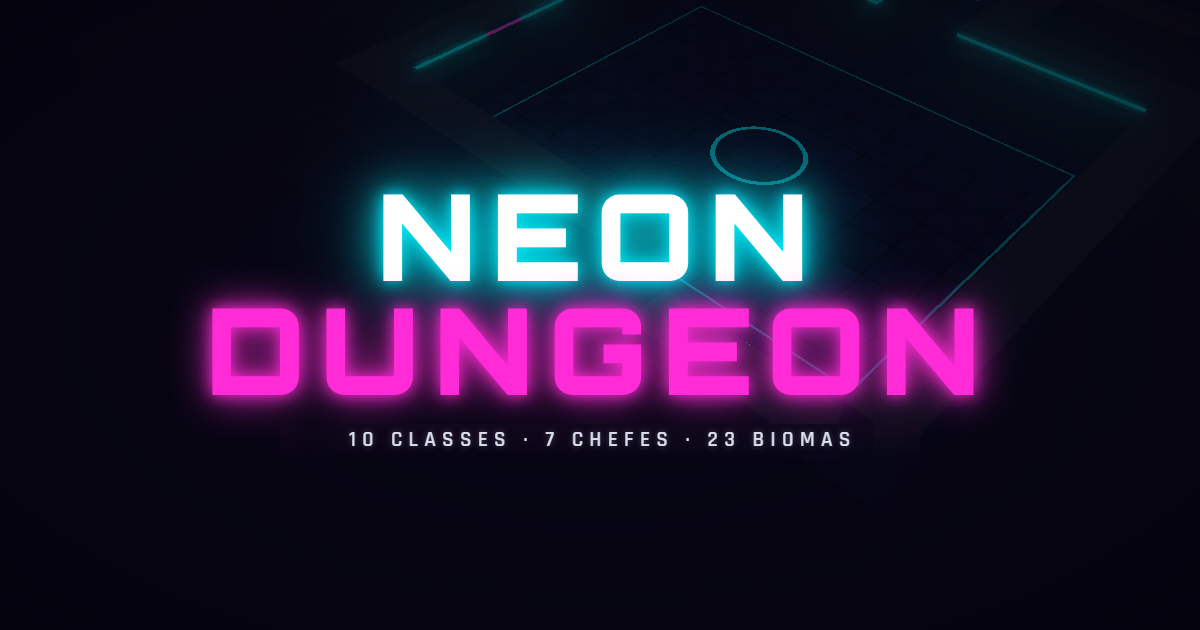
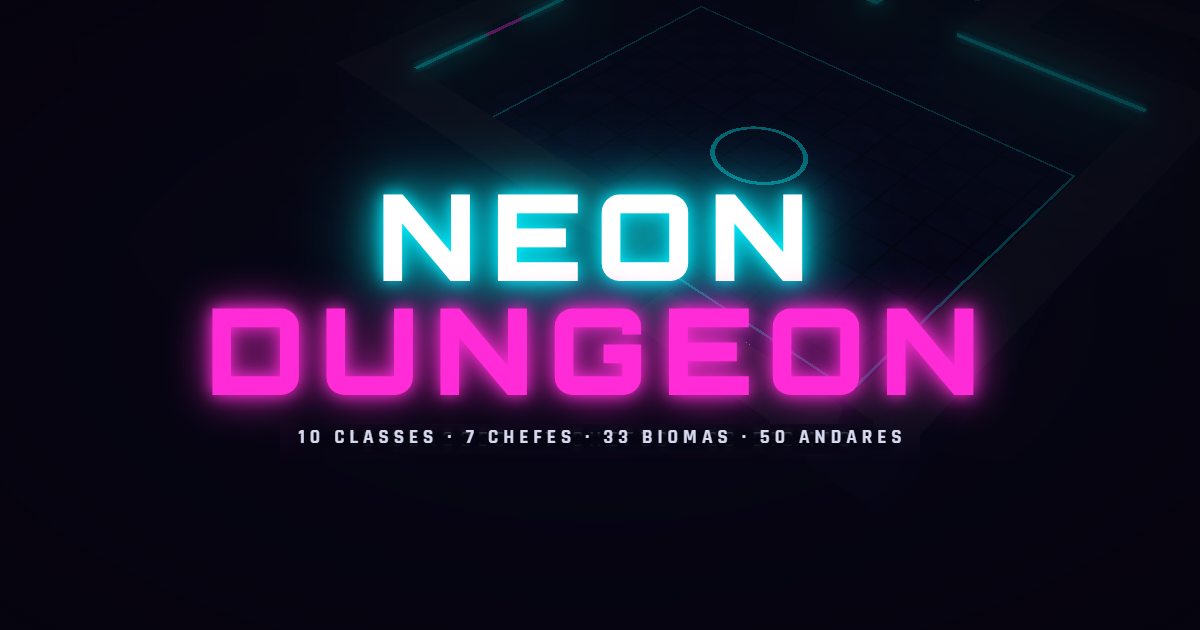
Fase H: docs finais (mythtree.js no README/AGENTS/ARCHITECTURE/CONTENT), og-image com 33 biomas e 50 andares e Plano 2 concluído

Changed region(s): [[0.2467, 0.6635, 0.74, 0.7238]]

diff --git a/docs/PLAN.md b/docs/PLAN.md
@@ -205,12 +205,12 @@ Uma fase por commit/push. Detalhes completos: este arquivo + o plano aprovado da
 - [x] **Fase D** — 10 biomas, 2 commits de 5, padrão do `wilds.js` (mecânicas novas em `wilds2.js`). **D1 feito** (aurora, coral, clock, mirrorlake, arcade; andares 30–41). **D2 feito** (mushroom, storm, library, lavafall, garden; andares 27–29, 31, 42–47; 33 biomas nos docs/meta). Falta regerar o `og-image.png` na Fase H.
 - [x] **Fase E** — 15 inimigos (5 tech: Drone Espelho, Gravitador, Ceifador de Dados, Construtor, Enxame Mosca; 10 fauna dos biomas novos). Código em `js/enemies2.js` (IA `aiNew`, ganchos), `ETYPES` em `enemies.js`, modelos `newEnemyModel` em `models.js`, overlay `#ink`, `fauna` dos 10 biomas atualizada; README diz 55 tipos.
 - [x] **Fase F** (F3 feita: lock, elements, snake, mines, tug, beacon [TIMED], juggle [TIMED], sculpt, portal, king [TIMED]; F1 feita: sokoban, pipes, piano, scale, maze, bridge, paint, hide, statues, cannon; F2 feita: golem, fishing, dominos, bounty2 [TIMED], tower, bells, garden2, courier, ghosthunt, pinata; tudo em `js/events2.js`, medalhas em `ach.js`) — 30 eventos novos (3 commits de 10), só acrescentar no fim de `MAIN_EVENTS`; os com relógio entram em `TIMED`.
-- [ ] **Fase G** — +10 poderes por classe (5 ataques `myth` + 5 defesas `ward`), 2 classes por commit, no FIM da lista (depois de pSwift, SUP e APEX). **G1 feita** (blade, gunner); **G2 feita** (netrunner, brawler); **G3 feita** (pyro, frost); **G4 feita** (heavy, hunter); **G5 feita** (lancer, biohacker); Fase G concluída; falta, heavy+hunter, lancer+biohacker. Tudo em `js/mythtree.js` (arquétipos `ATK`/`WRD`, ícones `BASE`+`MARK`; só adicionar linhas `myth(...)`/`ward(...)`/`wardP(...)` por classe; marcas `myth`/`ward` em `TIERS` do `ui.js`; medalhas mythTree/wardTree = 224).
-- [ ] **Fase H** — Docs finais, contagens, `og-image.png`.
+- [x] **Fase G** — +10 poderes por classe (5 ataques `myth` + 5 defesas `ward`), 2 classes por commit, no FIM da lista (depois de pSwift, SUP e APEX). **G1 feita** (blade, gunner); **G2 feita** (netrunner, brawler); **G3 feita** (pyro, frost); **G4 feita** (heavy, hunter); **G5 feita** (lancer, biohacker); Fase G concluída; falta, heavy+hunter, lancer+biohacker. Tudo em `js/mythtree.js` (arquétipos `ATK`/`WRD`, ícones `BASE`+`MARK`; só adicionar linhas `myth(...)`/`ward(...)`/`wardP(...)` por classe; marcas `myth`/`ward` em `TIERS` do `ui.js`; medalhas mythTree/wardTree = 224).
+- [x] **Fase H** — Docs finais, contagens, `og-image.png` regerado (33 biomas, 50 andares), `mythtree.js` documentado em README/AGENTS/ARCHITECTURE/CONTENT. **Feita.**
 
 ## Notas de passagem entre contas (Plano 2) — atualizado após a Fase D
 
-**Próximo passo: Fase H (docs finais; Fase G concluída, ver `js/mythtree.js`)** — +10 poderes por classe: fileira `myth` níveis 104/112/120/128/136 e `guard` 108/116/124/132/140, 5 commits de 2 classes: blade+gunner, netrunner+brawler, pyro+frost, heavy+hunter, lancer+biohacker; anexar no fim de `CLASSES[cls].skills`, novas linhas em `TIERS` de `ui.js`, `sanitizeChar` completa zeros, ícones em `ICONS`, lógica em `SKILL_FN`/`powers.js`, medalhas mythTree/guardTree). Depois H (docs finais + og-image). Fases A–F concluídas (68 eventos, 222 medalhas).
+**Plano 2 concluído** (Fases 0, A–H). Estado final: 50 andares por tier, Abismo I–C, 33 biomas, 55 inimigos, 68 eventos, 224 medalhas, 10 poderes míticos por classe (`js/mythtree.js`).
 
 Onde estão as coisas / lições já aprendidas:
 - Biomas novos: `js/wilds2.js` (mecânicas), `FEAT` 29–43 em `biomes.js`, `THEMES` em `dungeon.js`, `FLOOR_THEMES` (andares 27–47 usam os 10 biomas novos). A fauna dos biomas novos (era temporária; agora definitiva na Fase E) (reaproveita `icewolf`, `yeti`, `wisp`, `ghost`, `eagle`, `goat`, `toad`, `salamander`, `magmagolem`, `antibody`, `drone`, `tesladrone`, `sentry`, `fossilcrab`, `skyray`, `kamikaze`). A Fase E troca o campo `fauna: [...]` de cada tema pelos inimigos novos: aurora→Lobo Aurora, coral→Polvo Neon, clock→Autômato de Corda, mirrorlake→Espectro de Reflexo, arcade→Bola de Pinball, mushroom→Fungóide, storm→Elemental de Raio, library→Livro Mordedor, lavafall→Salamandra de Basalto, garden→Samurai de Bambu. Os 5 tech (Drone Espelho, Gravitador, Ceifador de Dados, Construtor, Enxame Mosca) entram nos biomas tech (`neon`, `factory`, `data`, `space`, `cryo`...).

diff --git a/docs/ARCHITECTURE.md b/docs/ARCHITECTURE.md
@@ -160,8 +160,9 @@ Navigation helpers:
 
 - `CLASSES[id]` holds `name`, `title`, `desc`, colors (`css`, `accent`), `melee`, `range`, `base` stats, `weaponNames` and `skills`.
 - Each class has 9 active skills, then 3 passives (`PASSIVES`, built with the `passive()` helper; `mods(rank)` returns stat bonuses), then the shared Teleport (`warp`), then 3 advanced passives (`LATE_PASSIVES`, marked `late: true`, levels 20/28/36), then 4 advanced powers (`ADV_POWERS`, built with the `adv()` helper and marked `adv: true`, levels 40/50/60/70: attack, defense, attack, defense). The Netrunner has its own teleport, so it has 19 skills instead of 20. After those come 4 supreme passives (`SUP_PASSIVES`, `sup()` helper, `sup: true`, levels 72/80/88/96) and 4 apex attacks (`APEX_POWERS`, `apex()` helper, `apex: true`, levels 76/84/92/100). Every class has them; the Valkyrie and the Biohacker keep theirs in `SUP_LATE`/`APEX_LATE`, pushed after Swift Steps so saved skill indices never move.
+- `js/mythtree.js` appends the last 10 skills of each class (5 `myth` attacks, levels 104–136, and 5 `ward` defenses, levels 108–140: 3 active and 2 passive). A power is one line: `myth(cls, archetype, id, level, name, mark, cost, cd, params)`, `ward(...)` or `wardP(cls, id, level, name, icon, modsFn)`. The archetype (`ATK` / `WRD` tables) supplies `run` and the bilingual description; `BASE` + `MARK` compose the icon. Each class ends with 39 skills; `sanitizeChar` pads older saves with zeros.
 - `skills[0]` is the primary attack (free, no cooldown). `skills[1]` starts unlocked.
-- The skill tree layout (which index goes in which row) is `TIERS` in `ui.js`. A skill's `req` is the level needed. The last rows find their skills by their `mark` (`late`, `adv`, `sup`, `apex`) instead of fixed indices; a row with no skills for the class is hidden.
+- The skill tree layout (which index goes in which row) is `TIERS` in `ui.js`. A skill's `req` is the level needed. The last rows find their skills by their `mark` (`late`, `adv`, `sup`, `apex`, `myth`, `ward`) instead of fixed indices; a row with no skills for the class is hidden.
 - Skill logic lives in `SKILL_FN`, keyed by skill `id`, extended by `Object.assign(SKILL_FN, {...})` blocks. Big reusable powers (summons, orbitals, black holes, storms, transformations) are in `powers.js`.
 - `ICONS` holds inline-SVG path strings on a 32×32 viewBox.
 

diff --git a/README.md b/README.md
@@ -115,7 +115,7 @@ Two **supreme rows** sit at the top of the tree: four supreme passives (levels 7
 | Valkyrie | Thunder Tip, Einherjar, Storm Rider, Valkyrie Queen | Thunder Volley, Valkyrie's Charge, Valkyrie Host, Odin's Judgement |
 | Biohacker | Toxic Blood, Symbiote, Pandemic Gene, Patient Zero | Plague Cloud, Nanobot Swarm, Alpha Mutant, Pandemic |
 
-Two more rows close the tree: **five mythic attacks** (levels 104, 112, 120, 128 and 136) and **five mythic defenses** (levels 108, 116, 124, 132 and 140, a mix of active powers and passives). They are built from shared archetypes (beams, cones, rains of projectiles, summons, shields, decoys, big heals...) in .
+Two more rows close the tree: **five mythic attacks** (levels 104, 112, 120, 128 and 136) and **five mythic defenses** (levels 108, 116, 124, 132 and 140, a mix of active powers and passives). They are built from shared archetypes (beams, cones, rains of projectiles, summons, shields, decoys, big heals...) in `js/mythtree.js`.
 
 | Class | Mythic attacks | Mythic defenses |
 | --- | --- | --- |
@@ -456,6 +456,8 @@ js/sync.js             Google sign-in and Google Drive cloud save
 js/ach.js              medals (achievements) and their counters
 js/run.js              floor anomalies, contracts, rifts, kill combo and implants
 js/events.js           floor puzzles and challenges (terminals, lasers, bomb, wanted, circuit, escort, secret room...)
+js/events2.js          the newer floor events (energy boxes, plumbing, giant keyboard, scales, light maze... up to King of the Hill)
+js/mythtree.js         the 10 mythic powers per class (5 attacks + 5 defenses), built from shared archetypes
 js/mythic.js           mythic item powers
 js/finale.js           true-ending cinematic after beating the Inferno (2D canvas)
 js/pets.js             decorative pets that wander each biome

diff --git a/AGENTS.md b/AGENTS.md
@@ -94,6 +94,7 @@ Module map (`js/`):
 | `wilds2.js` | The third wave of wild biomes (aurora, coral, clock, mirrorlake, arcade, mushroom, storm, library, lavafall, garden): strips of aurora light, reef currents and bubbles, gears and clock hands, mirror floor, pinball bumpers, bouncy mushrooms and spores, lightning and rods, trap pages, lava columns, healing lanterns. `wilds.js` delegates to it (`placeWild2`, `wildGround2`, `buildWilds2`, `updateWilds2`) and exports the shared helpers (`blobs`, `spots`, `layer`, `lam`, `basic`...). |
 | `wilds.js` | The 10 "wild" biomes (bones, glass, starswamp, hive, stonesea, armory, titan, ashwinter, uprain, salt): their floor tiles (`FEAT` 15+), placement, instanced meshes, breakable props, and runtime rules (shattering glass, tides, updrafts, sentinels, breath/heartbeat, gusts). |
 | `classes.js` | `CLASSES` (10 classes), `CLASS_ORDER`, passives, the shared Teleport skill, `SKILL_FN` (skill logic) and the inline-SVG `ICONS`. |
+| `mythtree.js` | The last two rows of every skill tree: 5 mythic attacks (`myth`, levels 104–136) and 5 mythic defenses (`ward`, levels 108–140) per class, built from archetype tables (`ATK`, `WRD`) with the `myth()` / `ward()` / `wardP()` helpers. Appended to `CLASSES[cls].skills` after everything else. |
 | `powers.js` | Advanced tree powers: summons, orbitals, black holes, storms, transformations. |
 | `player.js` | The player entity, `newCharacter`, `computeStats`, XP/levels, skill use. |
 | `enemies.js` | `ETYPES` (enemy types), AI, elites and affixes, `DIFFICULTY`, `populateFloor`, bosses (`BOSS_ORDER`, one update function per boss) and the final battle. |

diff --git a/docs/CONTENT.md b/docs/CONTENT.md
@@ -77,6 +77,7 @@ Test: pick the class from the menu, use every skill at rank 1 and after leveling
 - **Changing a skill's behavior or numbers:** edit its `SKILL_FN[id]` and its `desc`. The index doesn't change, so saves are fine.
 - **Adding a new skill to an existing class:** **append** it to the end of that class's `skills` array (after `warp`), never insert it in the middle. `c.skills[i]` and `c.slots` store indices, so inserting would shift every saved rank. Then add the new index to a row in `TIERS` (`ui.js`); classes that don't have that index just skip it. `sanitizeChar` already pads `c.skills` with zeros.
 - **A new tree row:** give the skills a new flag (like `sup` or `apex`), add `{ label: [minLvl, maxLvl], mark: 'flag' }` to `TIERS` in `ui.js` and the flag to `MARKS`. Rows without skills for a class are hidden.
+- **A new mythic power** (`js/mythtree.js`): add one line at the end of the class section: `myth(cls, 'beam', 'xId', 104, L('Nome', 'Name'), 'star', cost, cd, { len: 18, m: 9 })` for an attack (archetypes: beam, cone, nova, rain, volley, summon, orbit, chain, charge, pillars, bomb, vortex, storm, omni, ring, mark) or `ward(...)` / `wardP(...)` for a defense (archetypes: bulwark, shield, mendfield, phase, decoy, vamp). A new archetype needs an `ATK`/`WRD` entry (`run` + `d`) and a `BASE` icon. Append only, like any skill.
 - **Passives** use `passive: true` and are never placed on the skill bar. Their `mods(rank)` keys are summed in `passiveMods` → `computeStats`. A new stat key must be read somewhere (`computeStats` caps, `combat.js` damage, `player.js`), and needs a formatter in `PFMT`.
 
 ## Enemy
